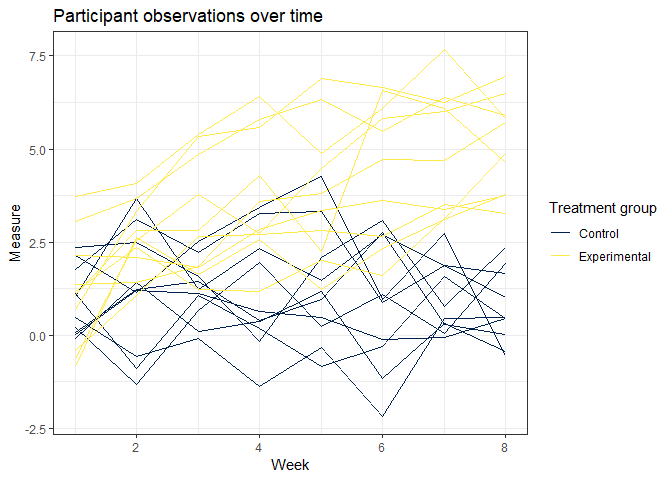
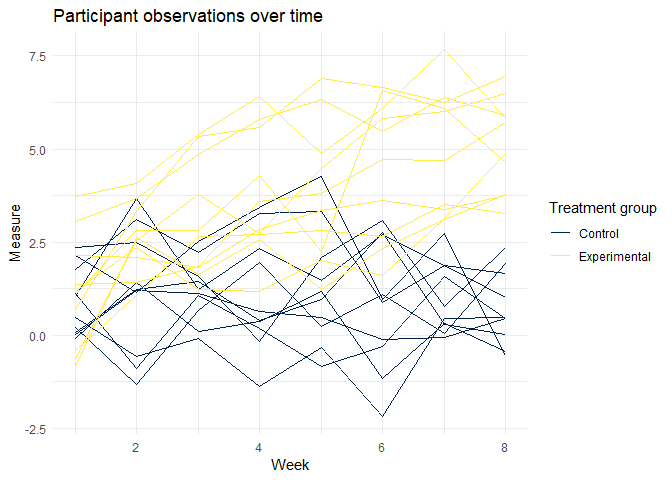
ggplot proportion of unsolved homicides per city

diff --git a/p8105_hw5_smi2112.md b/p8105_hw5_smi2112.md
@@ -275,7 +275,7 @@ ppt_info %>%
     geom_line() +
     labs(x = "Week", y = "Measure", title = "Participant observations over time") + 
     viridis::scale_color_viridis(option = "cividis", name = "Treatment group", discrete = TRUE, label = c("Control", "Experimental")) +
-    theme_bw()
+    theme_minimal()
 ```
 
 ![](p8105_hw5_smi2112_files/figure-markdown_github/unnamed-chunk-4-1.png)
@@ -503,3 +503,19 @@ city_unsolved_cases %>%
 | Washington, DC     |            0.4379182|  0.4112495|  0.4649455|
 
 #### Plotting estimates and CIs for each city
+
+``` r
+city_unsolved_cases %>% 
+  mutate(city_state = fct_reorder(city_state, estimate)) %>% 
+  ggplot(aes(x = city_state, y = estimate)) +
+    geom_point() +
+    geom_errorbar(aes(ymax = conf.high, ymin = conf.low)) +
+    labs(x = "City, State", 
+         y = "Proportion of Unsolved Homicides", 
+         title = "Proportion of Unsolved Homicides per City",
+         caption = "Error bars represent the 95% confidence interval") +
+    coord_flip() +
+    theme_minimal()
+```
+
+![](p8105_hw5_smi2112_files/figure-markdown_github/unnamed-chunk-10-1.png)
